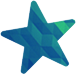
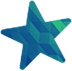
Обновление верстки

diff --git a/web/css/styles.css b/web/css/styles.css
@@ -617,16 +617,16 @@ a, a:active, a:hover, a:visited, a:focus {
 }
 
 #visa-page .article .star {
-    background: url('../img/visa-star.png') left 10px no-repeat transparent;
+    background: url('../img/flights-star.png') left 10px no-repeat transparent;
     float: right;
-    height: 85px;
+    height: 90px;
     width: 151px;
 }
 
 #visa-page .article .smile {
-    background: url('../img/visa-smile.png') left top no-repeat transparent;
+    background: url('../img/flights-smile.png') left top no-repeat transparent;
     float: right;
-    height: 59px;
+    height: 90px;
     margin-top: 75px;
     width: 118px;
 }
@@ -1024,15 +1024,16 @@ a, a:active, a:hover, a:visited, a:focus {
 #faq-page .article .plane {
     background: url('../img/flights-plane.png') left top no-repeat transparent;
     float: right;
-    height: 70px;
+    height: 90px;
     width: 194px;
+    margin-bottom: 10px;
     margin-left: 15px;
 }
 
 #faq-page .article .smile {
-    background: url('../img/visa-smile.png') left top no-repeat transparent;
+    background: url('../img/flights-smile.png') left top no-repeat transparent;
     float: right;
-    height: 70px;
+    height: 90px;
     width: 194px;
     margin-left: 15px;
 }
@@ -1083,7 +1084,7 @@ a, a:active, a:hover, a:visited, a:focus {
 }
 
 #loyalty-page .article .smile {
-    background: url('../img/loyalty-smile.png') left bottom no-repeat transparent;
+    background: url('../img/flights-smile2.png') left bottom no-repeat transparent;
     float: right;
     height: 238px;
     width: 175px;
